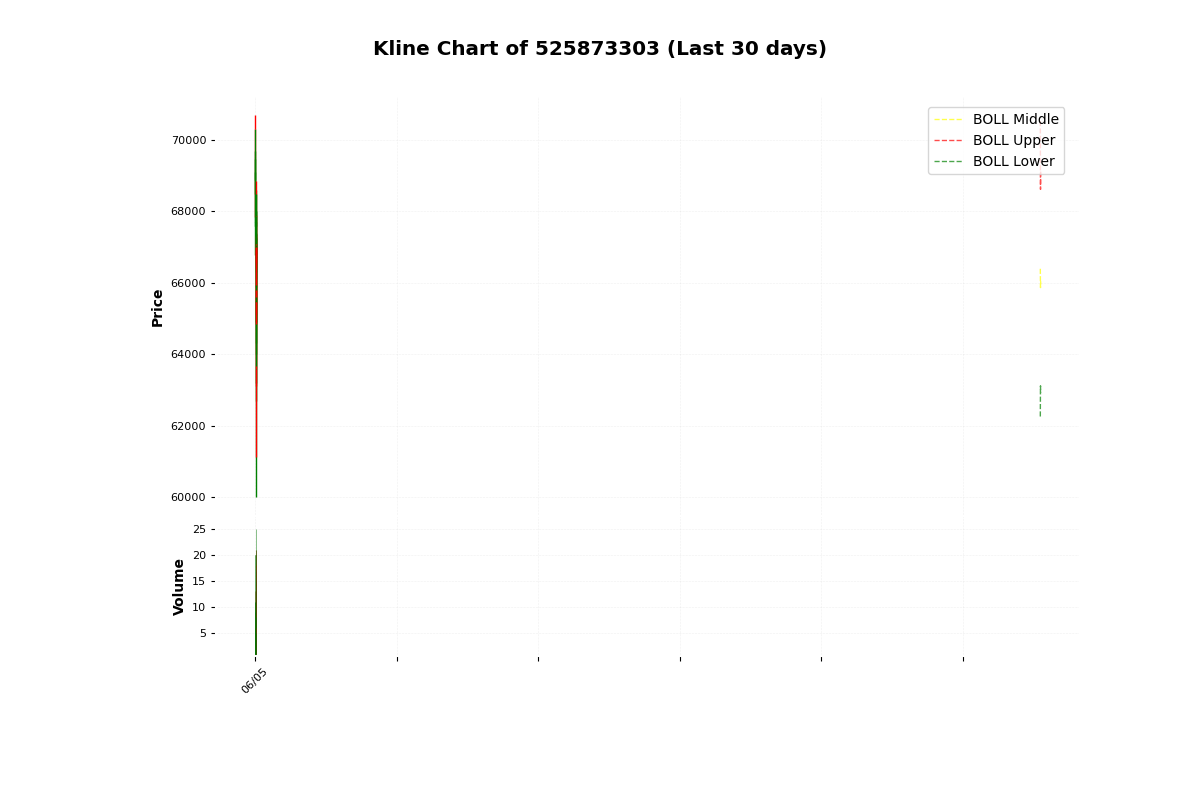
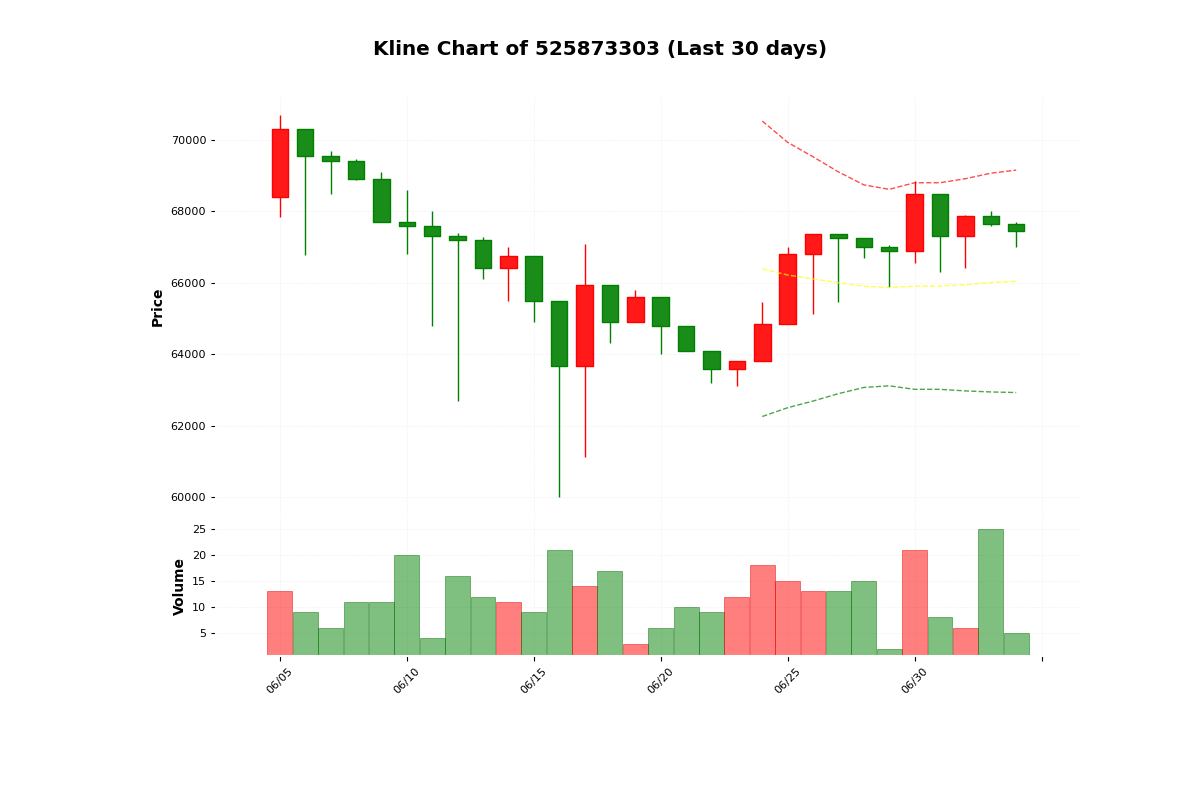
feat: support vegas lines, better chart style

Changed region(s): [[0.185, 0.6562, 0.8633, 0.875], [0.185, 0.1562, 0.5858, 0.5938], [0.5858, 0.125, 0.8942, 0.4688]]

diff --git a/src/analysis/chart.py b/src/analysis/chart.py
@@ -77,10 +77,14 @@ class KLineChart:
             return None
         
         # 转换数据格式
-        df = self.indicators.prepare_dataframe(raw_data)
+        df_full = self.indicators.prepare_dataframe(raw_data)
+        
+        # 在全量数据上计算技术指标
+        middle, upper, lower = self.indicators.calculate_bollinger_bands(df_full)
+        ema1, ema2, ema3 = self.indicators.calculate_vegas_tunnel(df_full)
         
         # 筛选最近N天的数据
-        df = self._filter_recent_data(df)
+        df = self._filter_recent_data(df_full)
         
         if len(df) == 0:
             logger.warning(f"商品 {item_id} 筛选后没有数据，无法绘制K线图")
@@ -90,8 +94,29 @@ class KLineChart:
         if title is None:
             title = f"Kline Chart of {item_id} (Last {self.days_to_show} days)"
         
-        # 获取技术指标的绘图参数
-        addplots = self.indicators.get_indicator_plots(df, indicator_type)
+        # 准备技术指标数据（确保与显示数据长度匹配）
+        addplots = []
+        if indicator_type in [IndicatorType.BOLL, IndicatorType.ALL]:
+            # 添加布林带（使用与df相同的时间范围）
+            middle = middle[df.index]
+            upper = upper[df.index]
+            lower = lower[df.index]
+            addplots.extend([
+                mpf.make_addplot(middle, color='yellow', linestyle='-', width=1, alpha=0.7, secondary_y=False),
+                mpf.make_addplot(upper, color='red', linestyle='-', width=1, alpha=0.7, secondary_y=False),
+                mpf.make_addplot(lower, color='green', linestyle='-', width=1, alpha=0.7, secondary_y=False)
+            ])
+        
+        if indicator_type in [IndicatorType.VEGAS, IndicatorType.ALL]:
+            # 添加维加斯通道（使用与df相同的时间范围）
+            ema1 = ema1[df.index]
+            ema2 = ema2[df.index]
+            ema3 = ema3[df.index]
+            addplots.extend([
+                mpf.make_addplot(ema1, color='blue', width=1, alpha=0.7, secondary_y=False),
+                mpf.make_addplot(ema2, color='magenta', width=1, alpha=0.7, secondary_y=False),
+                mpf.make_addplot(ema3, color='cyan', width=1, alpha=0.7, secondary_y=False)
+            ])
         
         # 创建子图，为技术指标预留空间
         fig, axes = mpf.plot(

diff --git a/src/analysis/indicators.py b/src/analysis/indicators.py
@@ -133,18 +133,18 @@ class TechnicalIndicators:
                 # 添加布林带
                 middle, upper, lower = self.calculate_bollinger_bands(df)
                 plots.extend([
-                    mpf.make_addplot(middle, color='yellow', linestyle='--', width=1, alpha=0.7),
-                    mpf.make_addplot(upper, color='red', linestyle='--', width=1, alpha=0.7),
-                    mpf.make_addplot(lower, color='green', linestyle='--', width=1, alpha=0.7)
+                    mpf.make_addplot(middle, color='yellow', linestyle='--', width=1, alpha=0.7, secondary_y=False),
+                    mpf.make_addplot(upper, color='red', linestyle='--', width=1, alpha=0.7, secondary_y=False),
+                    mpf.make_addplot(lower, color='green', linestyle='--', width=1, alpha=0.7, secondary_y=False)
                 ])
             
             if indicator_type in [IndicatorType.VEGAS, IndicatorType.ALL]:
                 # 添加维加斯通道
                 ema1, ema2, ema3 = self.calculate_vegas_tunnel(df)
                 plots.extend([
-                    mpf.make_addplot(ema1, color='blue', width=1, alpha=0.7),
-                    mpf.make_addplot(ema2, color='magenta', width=1, alpha=0.7),
-                    mpf.make_addplot(ema3, color='cyan', width=1, alpha=0.7)
+                    mpf.make_addplot(ema1, color='blue', width=1, alpha=0.7, secondary_y=False),
+                    mpf.make_addplot(ema2, color='magenta', width=1, alpha=0.7, secondary_y=False),
+                    mpf.make_addplot(ema3, color='cyan', width=1, alpha=0.7, secondary_y=False)
                 ])
             
         except Exception as e:
